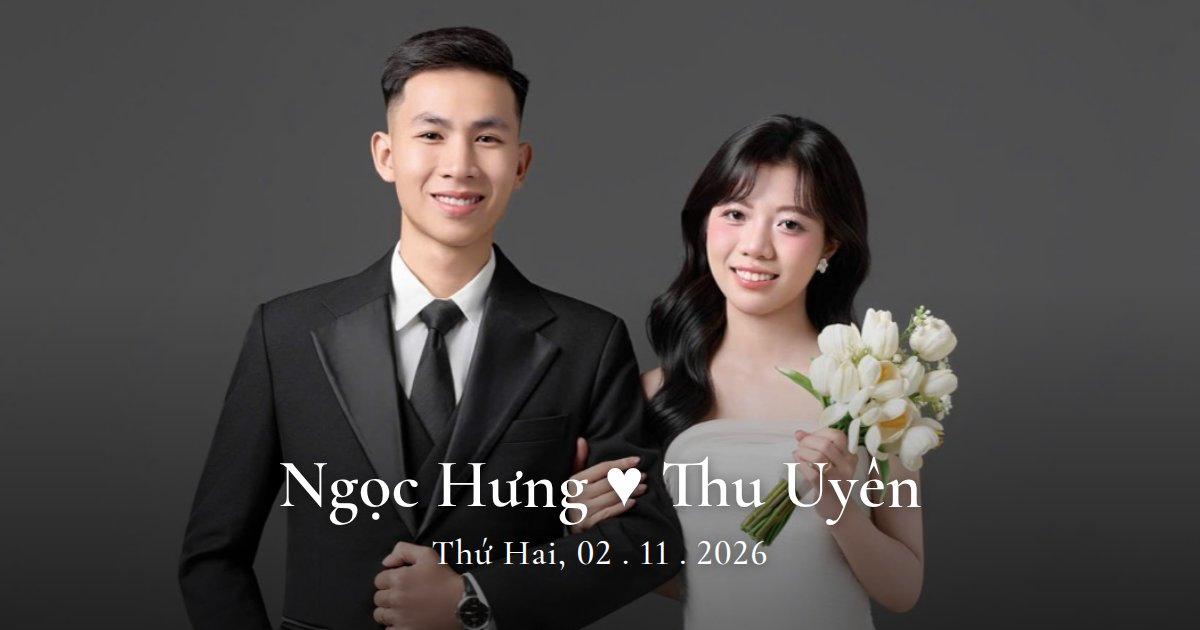
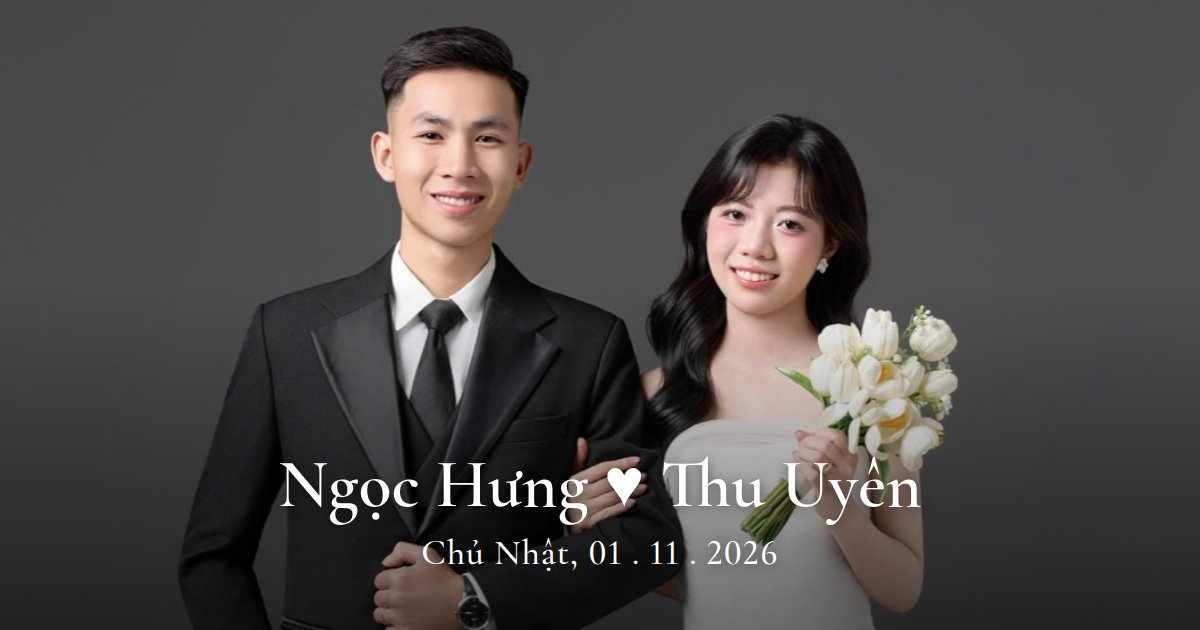
feat: thiệp Ngọc Hưng & Thu Uyên — ảnh xem trước ghi Chủ Nhật 01.11.2026, build lại dist (issue #17)

Changed region(s): [[0.3392, 0.8444, 0.6475, 0.9048]]

diff --git a/dist/index.html b/dist/index.html
@@ -4,12 +4,12 @@
     <meta charset="UTF-8" />
     <meta name="viewport" content="width=device-width, initial-scale=1.0" />
     <title>Ngọc Hưng &amp; Thu Uyên</title>
-    <meta name="description" content="Thiệp cưới Ngọc Hưng &amp; Thu Uyên — Thứ Hai, 02.11.2026. Trân trọng kính mời." />
+    <meta name="description" content="Thiệp cưới Ngọc Hưng &amp; Thu Uyên — Chủ Nhật, 01.11.2026. Trân trọng kính mời." />
     <!-- Link preview (Zalo, Facebook, iMessage, v.v.) dùng og:title / og:description -->
     <meta property="og:type" content="website" />
     <meta property="og:site_name" content="Ngọc Hưng &amp; Thu Uyên" />
     <meta property="og:title" content="Ngọc Hưng &amp; Thu Uyên" />
-    <meta property="og:description" content="Thiệp cưới Ngọc Hưng &amp; Thu Uyên — Thứ Hai, 02.11.2026. Trân trọng kính mời." />
+    <meta property="og:description" content="Thiệp cưới Ngọc Hưng &amp; Thu Uyên — Chủ Nhật, 01.11.2026. Trân trọng kính mời." />
     <meta property="og:locale" content="vi_VN" />
     <meta property="og:url" content="https://thuuyen-ngochung.vercel.app/" />
     <meta property="og:image" content="https://thuuyen-ngochung.vercel.app/images/og.jpg" />
@@ -17,7 +17,7 @@
     <meta property="og:image:height" content="630" />
     <meta name="twitter:card" content="summary_large_image" />
     <meta name="twitter:title" content="Ngọc Hưng &amp; Thu Uyên" />
-    <meta name="twitter:description" content="Thiệp cưới Ngọc Hưng &amp; Thu Uyên — Thứ Hai, 02.11.2026. Trân trọng kính mời." />
+    <meta name="twitter:description" content="Thiệp cưới Ngọc Hưng &amp; Thu Uyên — Chủ Nhật, 01.11.2026. Trân trọng kính mời." />
     <meta name="twitter:image" content="https://thuuyen-ngochung.vercel.app/images/og.jpg" />
     <link rel="preconnect" href="https://fonts.googleapis.com" />
     <link rel="preconnect" href="https://fonts.gstatic.com" crossorigin />
